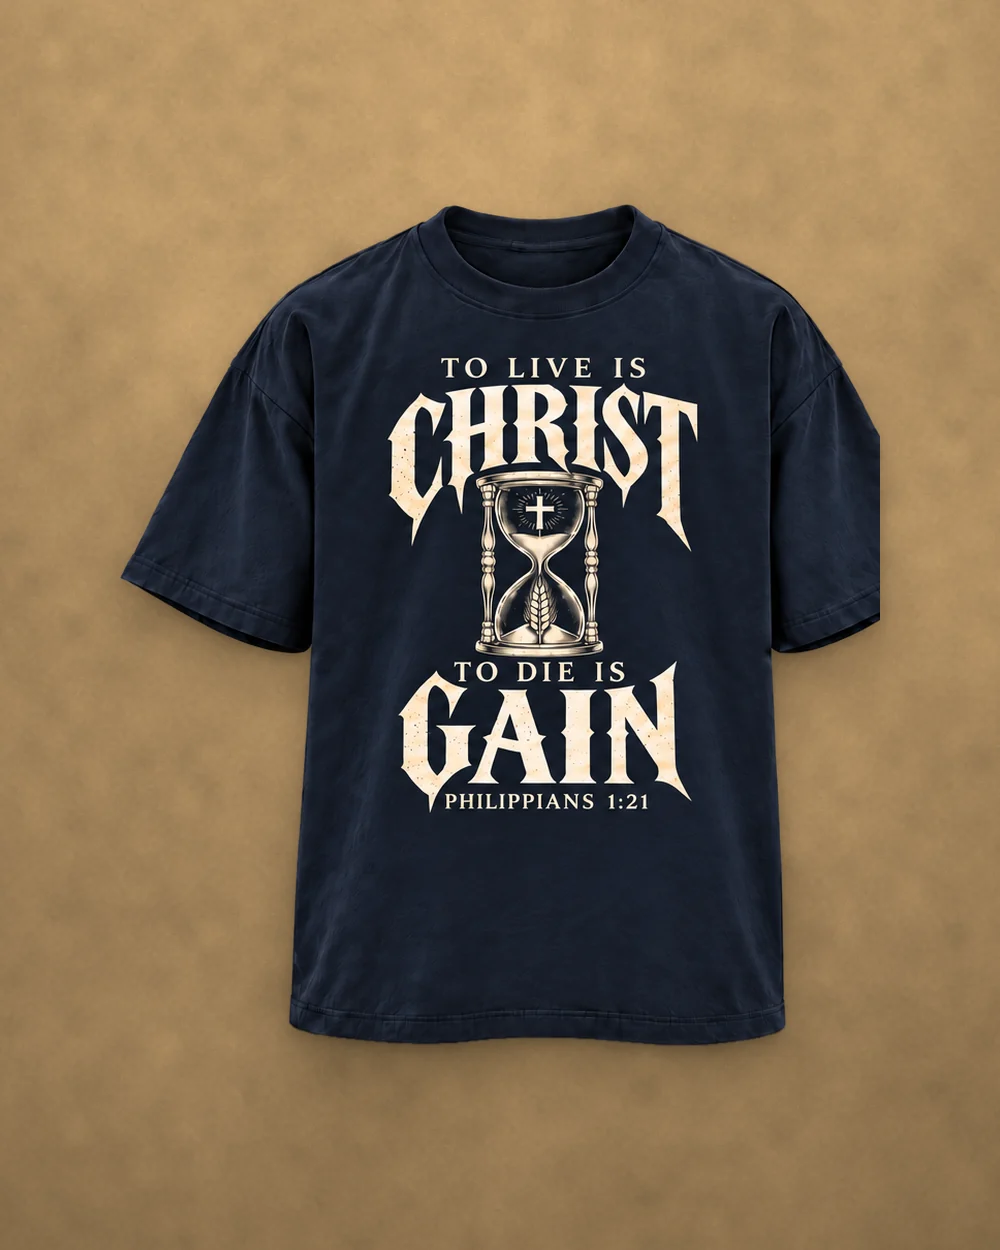
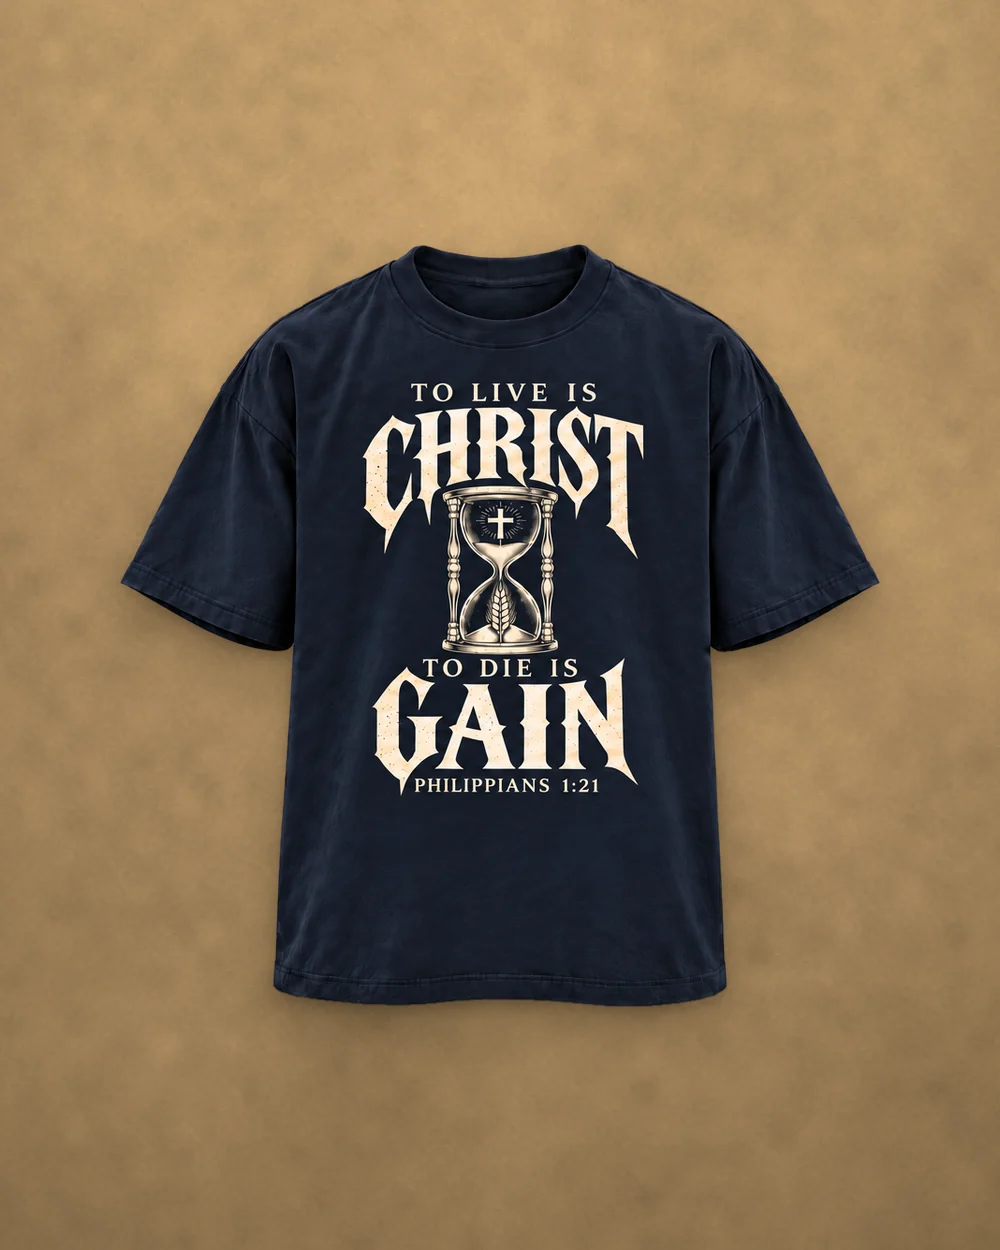
Rebuild the folded and clipped sleeves on the five tees
On each sheet the front and back touched at the sleeves, so the cut left
the inner sleeve folded (Thorns to Lilies, By His Hem, Stone in Motion,
Still the Storm) or short (To Live Is Christ). cutout.py now rebuilds that
sleeve from a mirror image of the whole one, matching the shoulder line so
there's no seam; the body and print are untouched. Stone in Motion also
loses the grey band under its hem. Product images and story scenes
regenerated.

Claude-Session: https://claude.ai/code/session_01VmqVMxiDGTr2J5oF5LgYP4

diff --git a/assets/mockups/cutout.py b/assets/mockups/cutout.py
@@ -34,19 +34,23 @@ CUTOUTS = HERE / "cutouts"
 # `touching` sheets have views that touch, so they are split along the narrowest point between
 # them (see split_garments). `gaps` reopens backdrop showing between a sleeve and the body;
 # `trim_shadow` removes a contact shadow under a dark hem; `fill_neck` fills a white tee's
-# inner collar (see the functions of the same names).
+# inner collar (see the functions of the same names). `mirror_sleeve` rebuilds the sleeve that
+# touched the neighbouring garment from a mirror image of the far one (see mirror_sleeve).
 SHEETS: dict[str, dict] = {
     "still-the-storm": {
+        "mirror_sleeve": {"front": "right", "back": "left"},
         "mode": "dark",
         "touching": True,
         "views": [("front", (20, 95, 768, 945)), ("back", (768, 95, 1520, 945))],
     },
     "by-his-hem": {
+        "mirror_sleeve": {"front": "right", "back": "left"},
         "mode": "light",
         "touching": True,
         "views": [("front", (15, 75, 768, 945)), ("back", (768, 75, 1515, 945))],
     },
     "thorns-to-lilies": {
+        "mirror_sleeve": {"front": "right", "back": "left"},
         "mode": "white",
         "touching": True,
         "fill_neck": ("front",),
@@ -59,11 +63,14 @@ SHEETS: dict[str, dict] = {
         "views": [("front", (15, 70, 768, 945)), ("back", (768, 70, 1520, 945))],
     },
     "stone-in-motion": {
+        "mirror_sleeve": {"front": "right", "back": "left"},
+        "trim_shadow": True,
         "mode": "light",
         "touching": True,
         "views": [("front", (30, 95, 768, 935)), ("back", (768, 95, 1510, 935))],
     },
     "to-live-is-christ": {
+        "mirror_sleeve": {"front": "right", "back": "left"},
         "mode": "dark",
         "touching": True,
         "trim_shadow": True,
@@ -164,18 +171,23 @@ def gaps(rgb8: np.ndarray, mask: np.ndarray) -> np.ndarray:
     return ndimage.binary_dilation(out, iterations=2) & mask
 
 
-def bottom_shadow(rgb8: np.ndarray, mask: np.ndarray) -> np.ndarray:
-    """The soft contact shadow under a dark hem is dark enough to pass as garment. Walk up each
-    column from the bottom and drop pixels clearly lighter than the garment."""
+def bottom_shadow(rgb8: np.ndarray, mask: np.ndarray, mode: str = "dark") -> np.ndarray:
+    """The contact shadow under a hem can pass as garment: lighter than a dark garment but still
+    dark, or a grey band under a light one. Walk up each column from the bottom and drop pixels
+    that don't match the garment's lightness."""
     lab, _ = lab_and_delta(rgb8)
     L = lab[..., 0]
-    ref = np.percentile(L[mask], 30)
+    if mode == "dark":
+        ref = np.percentile(L[mask], 30)
+        garment = L <= ref + 12
+    else:
+        ref = np.percentile(L[mask], 50)
+        garment = L >= ref - 18
     out = np.zeros_like(mask)
-    h, w = mask.shape
     for x in np.flatnonzero(mask.any(0)):
         ys = np.flatnonzero(mask[:, x])
         for y in ys[::-1]:
-            if L[y, x] <= ref + 12:
+            if garment[y, x]:
                 break
             out[y, x] = True
     return ndimage.binary_opening(out, iterations=1)
@@ -322,7 +334,7 @@ def cut(
     if find_gaps:
         background |= gaps(rgb8, mask)
     if trim_shadow:
-        background |= bottom_shadow(rgb8, mask)
+        background |= bottom_shadow(rgb8, mask, mode)
     alpha = np.clip(refine(rgb8, mask, exclude, background), 0, 1)
     if view in fill_neck:
         neck = neck_opening(alpha > 0.5)
@@ -342,6 +354,81 @@ def cut(
     return img.crop(img.getchannel("A").point(lambda a: 255 if a > 8 else 0).getbbox())
 
 
+def mirror_sleeve(img: Image.Image, side: str, band: int = 28) -> Image.Image:
+    """Rebuilds the sleeve on `side` ("left" or "right") from a mirror image of the other one.
+    Where two garments touched on the sheet, the sleeves between them overlap or meet at the
+    cuff, so the cut leaves that sleeve folded, notched or short; the far sleeve is whole. The
+    body's side lines (measured below the sleeves) give the garment's centre line, the far
+    sleeve is mirrored across it, and only the region beyond that side line is replaced, with a
+    short blend so the shoulder runs on without a seam. The body and its print stay untouched."""
+    pad = 80
+    rgba = np.asarray(img.convert("RGBA")).astype(np.float64) / 255
+    rgba = np.pad(rgba, ((0, 0), (pad, pad), (0, 0)))
+    alpha = rgba[..., 3]
+    hard = alpha > 0.5
+    h, w = hard.shape
+    rows = np.flatnonzero(hard.any(1))
+    top, bottom = rows.min(), rows.max()
+    height = bottom - top
+    below = range(top + int(0.66 * height), top + int(0.9 * height))
+    lefts = [np.flatnonzero(hard[y])[0] for y in below if hard[y].any()]
+    rights = [np.flatnonzero(hard[y])[-1] for y in below if hard[y].any()]
+    body_l, body_r = float(np.median(lefts)), float(np.median(rights))
+    cx = (body_l + body_r) / 2
+
+    # The far sleeve's lowest point sets how far down the rebuilt region reaches.
+    far = hard[:, : int(body_l) - 6] if side == "right" else hard[:, int(body_r) + 6 :]
+    sleeve_bottom = np.flatnonzero(far.any(1)).max() + 12
+
+    xs = np.arange(w, dtype=np.float64)
+    src = np.clip(np.round(2 * cx - xs).astype(int), 0, w - 1)
+    mirror = rgba[:, src]
+    # The blend is wide across the shoulder, where sleeve and body are one piece of cloth, and
+    # narrow lower down, where the sleeve's underside meets the body at a clean edge.
+    ys = np.arange(h, dtype=np.float64)[:, None]
+    shoulder = np.clip((top + 0.3 * height - ys) / (0.1 * height), 0, 1)
+    width = 8 + (band - 8) * shoulder
+    if side == "right":
+        weight = np.clip((xs[None, :] - (body_r - 4)) / width, 0, 1)
+        outside = np.clip((xs - (body_r + 4)) / 8, 0, 1)
+    else:
+        weight = np.clip(((body_l + 4) - xs[None, :]) / width, 0, 1)
+        outside = np.clip(((body_l - 4) - xs) / 8, 0, 1)
+    # Below the sleeve only what lies outside the body's side line is taken from the mirror,
+    # which clears any scrap of the neighbouring garment left beside the body.
+    weight[sleeve_bottom:] = outside
+
+    a0, a1 = alpha.copy(), mirror[..., 3].copy()
+    p0 = rgba[..., :3] * alpha[..., None]
+    p1 = mirror[..., :3] * mirror[..., 3:4]
+    # The two shoulder lines rarely sit at the same height where they meet, and averaging them
+    # would leave a see-through ghost or a step. In each column of the shoulder blend, slide both
+    # columns up or down so their top edges meet at the blended height, then mix.
+    yy = np.arange(sleeve_bottom, dtype=np.float64)
+    for x in range(w):
+        wt = weight[top + 2, x]
+        if not 0 < wt < 1:
+            continue
+        on0 = np.flatnonzero(a0[:sleeve_bottom, x] > 0.5)
+        on1 = np.flatnonzero(a1[:sleeve_bottom, x] > 0.5)
+        if not len(on0) or not len(on1):
+            continue
+        target = (1 - wt) * on0[0] + wt * on1[0]
+        for arr_a, arr_p, edge in ((a0, p0, on0[0]), (a1, p1, on1[0])):
+            shift = target - edge
+            src_y = yy - shift
+            arr_a[:sleeve_bottom, x] = np.interp(src_y, yy, arr_a[:sleeve_bottom, x], left=0, right=0)
+            for c in range(3):
+                arr_p[:sleeve_bottom, x, c] = np.interp(src_y, yy, arr_p[:sleeve_bottom, x, c], left=0, right=0)
+
+    wgt = weight[..., None]
+    premult = p0 * (1 - wgt) + p1 * wgt
+    a = a0 * (1 - weight) + a1 * weight
+    rgb = np.where(a[..., None] > 1e-4, premult / np.maximum(a, 1e-4)[..., None], 0)
+    out = Image.fromarray((np.dstack([np.clip(rgb, 0, 1), a]) * 255).round().astype(np.uint8), "RGBA")
+    return out.crop(out.getchannel("A").point(lambda v: 255 if v > 8 else 0).getbbox())
+
+
 def main() -> None:
     CUTOUTS.mkdir(exist_ok=True)
     for slug, sheet in SHEETS.items():
@@ -357,6 +444,8 @@ def main() -> None:
                 sheet.get("gaps", False),
                 sheet.get("trim_shadow", False),
             )
+            if view in sheet.get("mirror_sleeve", {}):
+                img = mirror_sleeve(img, sheet["mirror_sleeve"][view])
             path = CUTOUTS / f"{slug}-{view}.webp"
             img.save(path, "WEBP", lossless=True, method=6)
             print(path.relative_to(HERE), img.size, flush=True)
